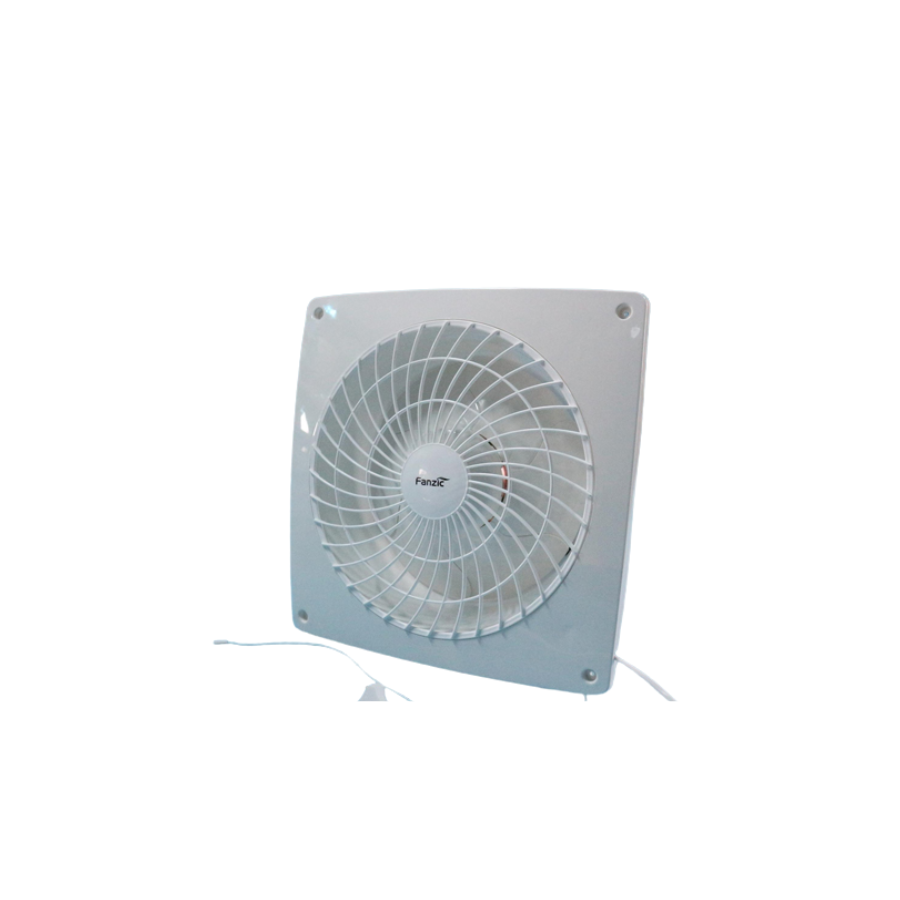
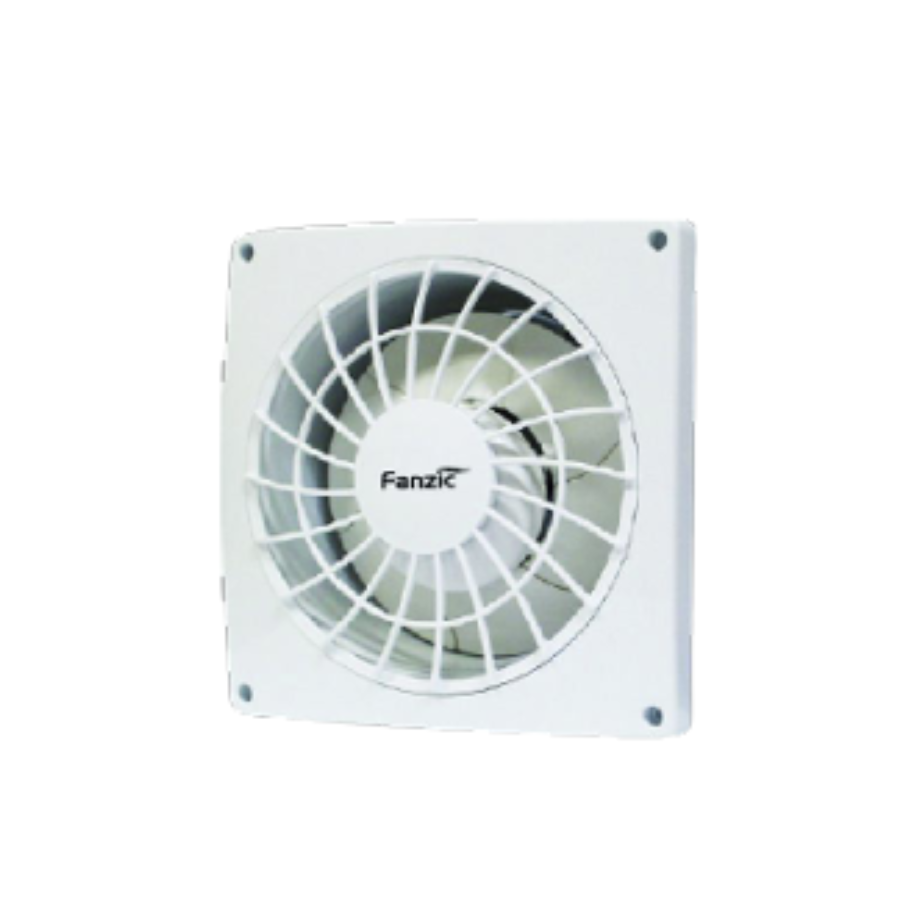
Add missing products and fix Shutter image
- Add Large Centrifugal Fan (featured card in centrifugal section)
- Add Shutter fan (replaces incorrect Plastic Ventilation card)
- Add Large Propeller Fan
- Add Small Propeller Fan
- Add Ceiling Fan Collection (5 variants in gallery layout)
- Replace Shutter image with corrected version from client
- Update Ceiling Fan 4 image

Changed region(s): [[0.2178, 0.2489, 0.7778, 0.84]]

diff --git a/pages/products.html b/pages/products.html
@@ -370,6 +370,37 @@
                             </div>
                         </div>
 
+                        <!-- Large Centrifugal Fan -->
+                        <div id="large-centrifugal" class="bg-white rounded-2xl border border-gray-100 overflow-hidden shadow-md card-hover group sm:col-span-2">
+                            <div class="flex flex-col sm:flex-row">
+                                <div class="bg-gray-50 flex items-center justify-center relative overflow-hidden p-4 sm:p-6 cursor-pointer sm:w-1/2" style="min-height: 180px;" onclick="openLightbox(this.querySelector('img'))">
+                                    <img src="../images/products/large-centrifugal-fans.png" alt="Large Centrifugal Fan" class="max-h-48 w-full object-contain">
+                                    <div class="absolute top-3 right-3 bg-indigo-500/90 text-white text-[10px] font-bold px-2.5 py-1 rounded-full uppercase tracking-wide">Heavy Duty</div>
+                                </div>
+                                <div class="p-5 sm:w-1/2">
+                                    <h3 class="font-bold text-primary text-lg mb-1">Large Centrifugal Fan</h3>
+                                    <p class="text-gray-500 text-xs mb-3 leading-relaxed">Heavy-duty large centrifugal fan for high-pressure industrial applications. Designed for demanding environments including power plants, cement factories, steel mills, and large-scale HVAC systems requiring maximum airflow capacity.</p>
+                                    <div class="space-y-1.5 mb-4">
+                                        <div class="flex items-center gap-2 text-sm text-gray-500">
+                                            <i class="fas fa-gauge-high text-accent text-xs"></i>
+                                            <span>High-pressure industrial grade</span>
+                                        </div>
+                                        <div class="flex items-center gap-2 text-sm text-gray-500">
+                                            <i class="fas fa-industry text-accent text-xs"></i>
+                                            <span>Power plants, cement &amp; steel mills</span>
+                                        </div>
+                                        <div class="flex items-center gap-2 text-sm text-gray-500">
+                                            <i class="fas fa-expand text-accent text-xs"></i>
+                                            <span>Maximum airflow capacity</span>
+                                        </div>
+                                    </div>
+                                    <div class="flex gap-2">
+                                        <a href="contact.html" class="flex-1 text-center bg-gradient-to-r from-secondary to-accent text-white text-sm font-semibold py-2.5 rounded-lg hover:shadow-md transition" data-i18n="products.enquirenow">Enquire Now</a>
+                                    </div>
+                                </div>
+                            </div>
+                        </div>
+
                     </div>
                 </section>
 
@@ -545,27 +576,82 @@
                             </div>
                         </div>
 
-                        <!-- Plastic Ventilation Fan -->
-                        <div id="plastic-vent" class="bg-white rounded-2xl border border-gray-100 overflow-hidden shadow-md card-hover group">
+                        <!-- Shutter -->
+                        <div id="shutter" class="bg-white rounded-2xl border border-gray-100 overflow-hidden shadow-md card-hover group">
                             <div class="bg-gray-50 flex items-center justify-center relative overflow-hidden p-4 sm:p-6 cursor-pointer" style="min-height: 180px;" onclick="openLightbox(this.querySelector('img'))">
-                                <img src="../images/products/shutter.png" alt="Plastic Ventilation Fan" class="max-h-48 w-full object-contain">
-                                <div class="absolute top-3 right-3 bg-accent/90 text-white text-[10px] font-bold px-2.5 py-1 rounded-full uppercase tracking-wide" data-i18n="products.badge_bestseller">Best Seller</div>
+                                <img src="../images/products/shutter.png" alt="Shutter Fan" class="max-h-48 w-full object-contain">
                             </div>
                             <div class="p-5">
-                                <h3 class="font-bold text-primary text-lg mb-1" data-i18n="products.plastic">Plastic Ventilation Fan</h3>
-                                <p class="text-gray-500 text-xs mb-3 leading-relaxed" data-i18n="products.plastic_desc">Lightweight plastic body fans for residential bathrooms, kitchens, and small commercial spaces. Available in multiple sizes and configurations. Corrosion-resistant and easy to clean.</p>
+                                <h3 class="font-bold text-primary text-lg mb-1">Shutter</h3>
+                                <p class="text-gray-500 text-xs mb-3 leading-relaxed">Industrial shutter ventilation fan with automatic gravity louvers. Provides effective exhaust ventilation while preventing backdraft when the fan is off. Ideal for factories, warehouses, and agricultural buildings.</p>
                                 <div class="space-y-1.5 mb-4">
                                     <div class="flex items-center gap-2 text-sm text-gray-500">
+                                        <i class="fas fa-wind text-accent text-xs"></i>
+                                        <span>Automatic gravity louvers</span>
+                                    </div>
+                                    <div class="flex items-center gap-2 text-sm text-gray-500">
+                                        <i class="fas fa-industry text-accent text-xs"></i>
+                                        <span>Factories, warehouses, agriculture</span>
+                                    </div>
+                                    <div class="flex items-center gap-2 text-sm text-gray-500">
+                                        <i class="fas fa-shield-halved text-accent text-xs"></i>
+                                        <span>Backdraft prevention</span>
+                                    </div>
+                                </div>
+                                <div class="flex gap-2">
+                                    <a href="contact.html" class="flex-1 text-center bg-gradient-to-r from-secondary to-accent text-white text-sm font-semibold py-2.5 rounded-lg hover:shadow-md transition" data-i18n="products.enquirenow">Enquire Now</a>
+                                </div>
+                            </div>
+                        </div>
+
+                        <!-- Large Propeller Fan -->
+                        <div id="large-propeller" class="bg-white rounded-2xl border border-gray-100 overflow-hidden shadow-md card-hover group">
+                            <div class="bg-gray-50 flex items-center justify-center relative overflow-hidden p-4 sm:p-6 cursor-pointer" style="min-height: 180px;" onclick="openLightbox(this.querySelector('img'))">
+                                <img src="../images/products/large-propeller-fan.png" alt="Large Propeller Fan" class="max-h-48 w-full object-contain">
+                            </div>
+                            <div class="p-5">
+                                <h3 class="font-bold text-primary text-lg mb-1">Large Propeller Fan</h3>
+                                <p class="text-gray-500 text-xs mb-3 leading-relaxed">Heavy-duty large propeller fan for high-volume air movement in industrial environments. Designed for factory ventilation, warehouse cooling, and large-space air circulation applications.</p>
+                                <div class="space-y-1.5 mb-4">
+                                    <div class="flex items-center gap-2 text-sm text-gray-500">
+                                        <i class="fas fa-expand text-accent text-xs"></i>
+                                        <span>Large diameter blade</span>
+                                    </div>
+                                    <div class="flex items-center gap-2 text-sm text-gray-500">
+                                        <i class="fas fa-warehouse text-accent text-xs"></i>
+                                        <span>Industrial &amp; warehouse ventilation</span>
+                                    </div>
+                                    <div class="flex items-center gap-2 text-sm text-gray-500">
+                                        <i class="fas fa-wind text-accent text-xs"></i>
+                                        <span>High-volume air movement</span>
+                                    </div>
+                                </div>
+                                <div class="flex gap-2">
+                                    <a href="contact.html" class="flex-1 text-center bg-gradient-to-r from-secondary to-accent text-white text-sm font-semibold py-2.5 rounded-lg hover:shadow-md transition" data-i18n="products.enquirenow">Enquire Now</a>
+                                </div>
+                            </div>
+                        </div>
+
+                        <!-- Small Propeller Fan -->
+                        <div id="small-propeller" class="bg-white rounded-2xl border border-gray-100 overflow-hidden shadow-md card-hover group">
+                            <div class="bg-gray-50 flex items-center justify-center relative overflow-hidden p-4 sm:p-6 cursor-pointer" style="min-height: 180px;" onclick="openLightbox(this.querySelector('img'))">
+                                <img src="../images/products/small-propeller-fans.png" alt="Small Propeller Fan" class="max-h-48 w-full object-contain">
+                            </div>
+                            <div class="p-5">
+                                <h3 class="font-bold text-primary text-lg mb-1">Small Propeller Fan</h3>
+                                <p class="text-gray-500 text-xs mb-3 leading-relaxed">Compact propeller fan for residential and light commercial ventilation. Easy wall-mount installation for bathrooms, kitchens, utility rooms, and small office spaces.</p>
+                                <div class="space-y-1.5 mb-4">
+                                    <div class="flex items-center gap-2 text-sm text-gray-500">
+                                        <i class="fas fa-compress-arrows-alt text-accent text-xs"></i>
+                                        <span>Compact &amp; lightweight</span>
+                                    </div>
+                                    <div class="flex items-center gap-2 text-sm text-gray-500">
                                         <i class="fas fa-home text-accent text-xs"></i>
-                                        <span data-i18n="products.plastic_spec1">Bathrooms, kitchens, small spaces</span>
+                                        <span>Residential &amp; light commercial</span>
                                     </div>
                                     <div class="flex items-center gap-2 text-sm text-gray-500">
-                                        <i class="fas fa-feather text-accent text-xs"></i>
-                                        <span data-i18n="products.plastic_spec2">Lightweight, corrosion-resistant body</span>
-                                    </div>
-                                    <div class="flex items-center gap-2 text-sm text-gray-500">
-                                        <i class="fas fa-ruler text-accent text-xs"></i>
-                                        <span data-i18n="products.plastic_spec3">Multiple sizes &amp; configurations</span>
+                                        <i class="fas fa-tools text-accent text-xs"></i>
+                                        <span>Easy wall-mount installation</span>
                                     </div>
                                 </div>
                                 <div class="flex gap-2">
@@ -599,6 +685,39 @@
                                 </div>
                                 <div class="flex gap-2">
                                     <a href="contact.html" class="flex-1 text-center bg-gradient-to-r from-secondary to-accent text-white text-sm font-semibold py-2.5 rounded-lg hover:shadow-md transition" data-i18n="products.enquirenow">Enquire Now</a>
+                                </div>
+                            </div>
+                        </div>
+
+                        <!-- Ceiling Fan Variants -->
+                        <div id="ceiling-fans" class="bg-white rounded-2xl border border-gray-100 overflow-hidden shadow-md card-hover group sm:col-span-2 lg:col-span-3">
+                            <div class="p-5 sm:p-6">
+                                <h3 class="font-bold text-primary text-lg mb-4">Ceiling Fan Collection</h3>
+                                <p class="text-gray-500 text-xs mb-4 leading-relaxed">A range of ceiling fans designed for residential and commercial spaces. Available in multiple styles and sizes to match any interior.</p>
+                                <div class="grid grid-cols-2 sm:grid-cols-3 lg:grid-cols-5 gap-3">
+                                    <div class="bg-gray-50 rounded-xl p-3 text-center cursor-pointer" onclick="openLightbox(this.querySelector('img'))">
+                                        <img src="../images/products/ceiling-fan-1.png" alt="Ceiling Fan 1" class="h-28 w-full object-contain mb-2">
+                                        <span class="text-xs text-gray-600 font-medium">Ceiling Fan 1</span>
+                                    </div>
+                                    <div class="bg-gray-50 rounded-xl p-3 text-center cursor-pointer" onclick="openLightbox(this.querySelector('img'))">
+                                        <img src="../images/products/ceiling-fan-2.png" alt="Ceiling Fan 2" class="h-28 w-full object-contain mb-2">
+                                        <span class="text-xs text-gray-600 font-medium">Ceiling Fan 2</span>
+                                    </div>
+                                    <div class="bg-gray-50 rounded-xl p-3 text-center cursor-pointer" onclick="openLightbox(this.querySelector('img'))">
+                                        <img src="../images/products/ceiling-fan-3.png" alt="Ceiling Fan 3" class="h-28 w-full object-contain mb-2">
+                                        <span class="text-xs text-gray-600 font-medium">Ceiling Fan 3</span>
+                                    </div>
+                                    <div class="bg-gray-50 rounded-xl p-3 text-center cursor-pointer" onclick="openLightbox(this.querySelector('img'))">
+                                        <img src="../images/products/ceiling-fan-4.png" alt="Ceiling Fan 4" class="h-28 w-full object-contain mb-2">
+                                        <span class="text-xs text-gray-600 font-medium">Ceiling Fan 4</span>
+                                    </div>
+                                    <div class="bg-gray-50 rounded-xl p-3 text-center cursor-pointer" onclick="openLightbox(this.querySelector('img'))">
+                                        <img src="../images/products/ceiling-fan-5.png" alt="Ceiling Fan 5" class="h-28 w-full object-contain mb-2">
+                                        <span class="text-xs text-gray-600 font-medium">Ceiling Fan 5</span>
+                                    </div>
+                                </div>
+                                <div class="mt-4">
+                                    <a href="contact.html" class="inline-flex items-center gap-2 bg-gradient-to-r from-secondary to-accent text-white text-sm font-semibold px-5 py-2.5 rounded-lg hover:shadow-md transition" data-i18n="products.enquirenow">Enquire Now</a>
                                 </div>
                             </div>
                         </div>
